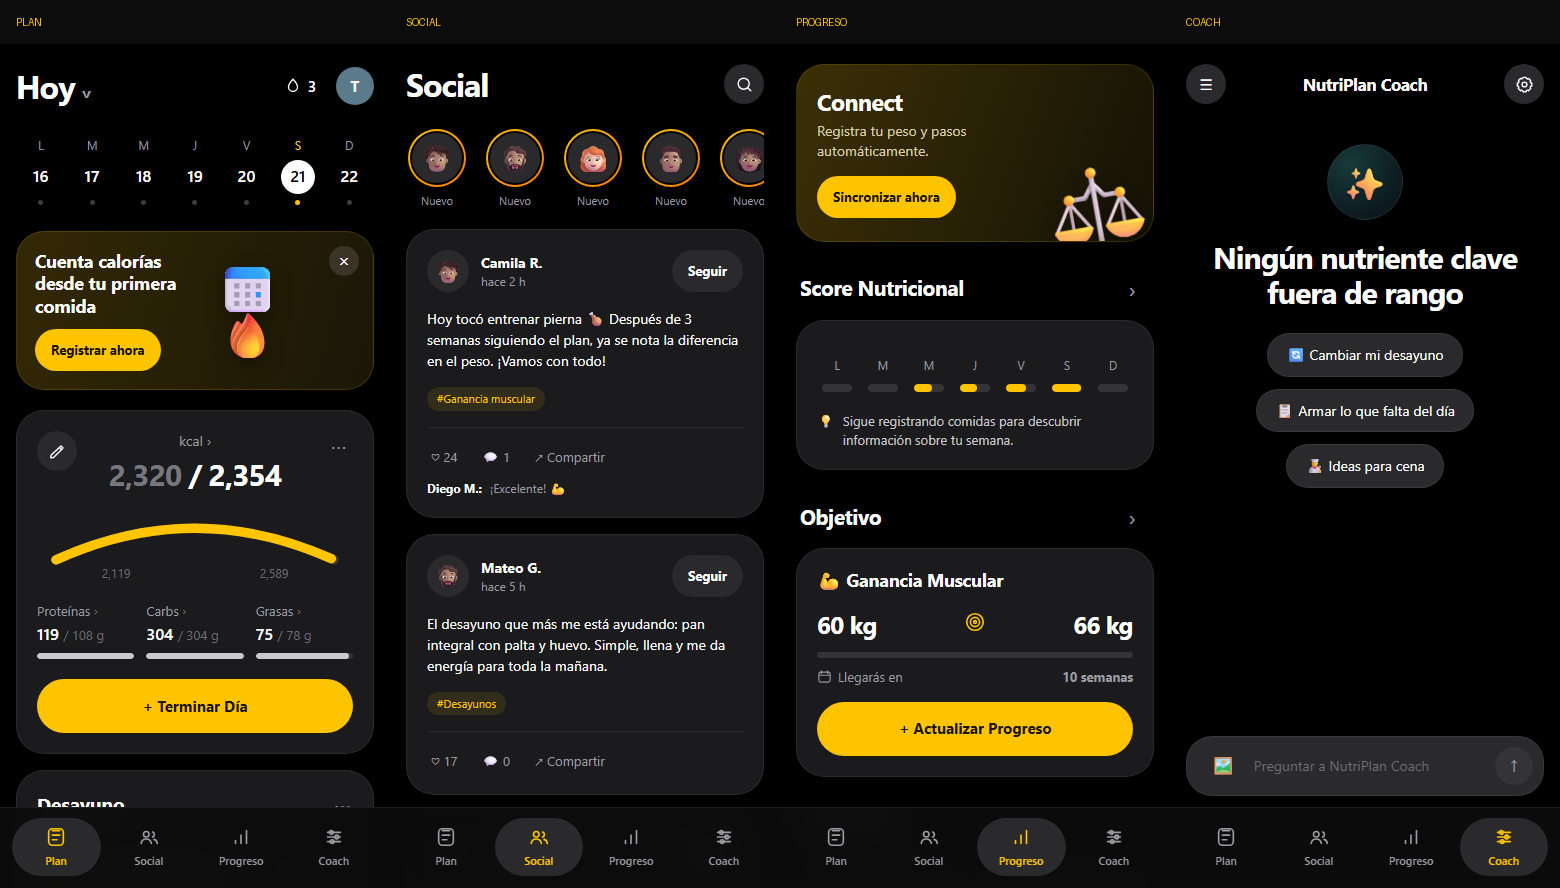
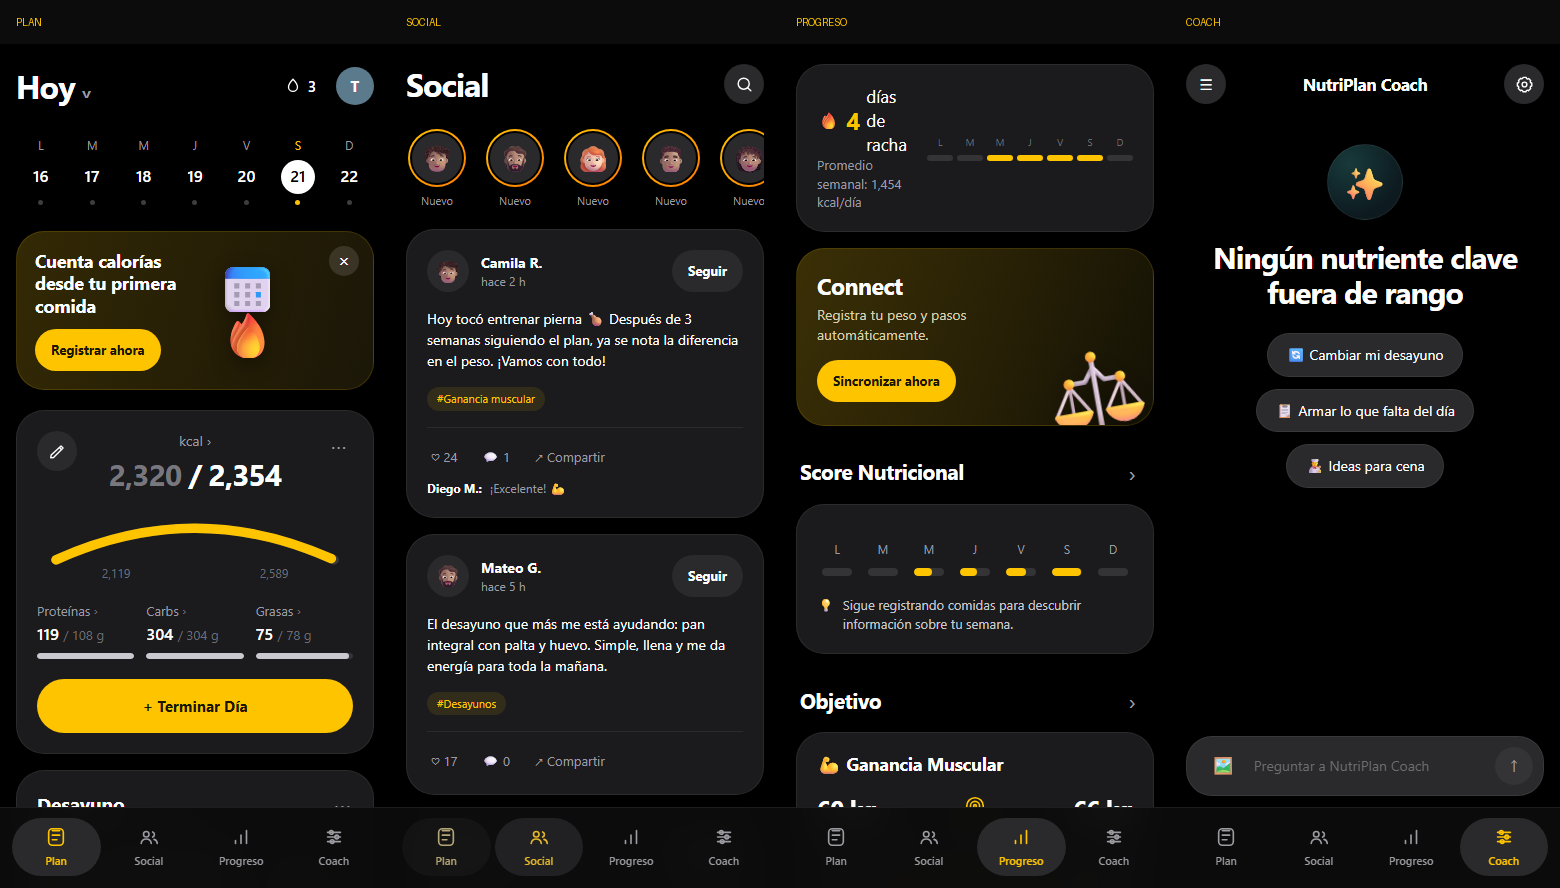
feat: añadir racha y promedio semanal en Progreso

Changed region(s): [[0.4923, 0.0608, 0.7385, 0.9122], [0.3385, 0.9426, 0.3692, 0.973]]

diff --git a/css/styles.css b/css/styles.css
@@ -352,6 +352,15 @@ h3 { font-size: 18px; line-height: 1.25; letter-spacing: -0.01em; font-weight: 7
 .add-row:hover { background: var(--surface-3); }
 
 /* ---------- Progreso ---------- */
+.streak-card { margin-bottom: var(--s4); }
+.streak-title { display: flex; align-items: center; gap: 6px; font-size: 17px; }
+.streak-title strong { font-size: 24px; color: var(--accent); }
+.streak-week { display: grid; grid-template-columns: repeat(7, 26px); gap: 4px; }
+.streak-day { display: flex; flex-direction: column; align-items: center; gap: 6px; }
+.streak-day span { font-size: 10px; color: var(--faint); }
+.streak-day i { width: 100%; height: 6px; border-radius: 99px; background: var(--surface-3); }
+.streak-day.on i { background: var(--accent); }
+
 .connect {
   position: relative;
   display: flex;
@@ -459,6 +468,19 @@ h3 { font-size: 18px; line-height: 1.25; letter-spacing: -0.01em; font-weight: 7
 .bubble { max-width: 88%; padding: 12px 16px; border-radius: 18px; font-size: 14px; line-height: 1.45; white-space: pre-wrap; }
 .bubble.user { justify-self: end; background: var(--accent); color: #1c1500; border-bottom-right-radius: 4px; }
 .bubble.coach { justify-self: start; background: var(--surface-2); border-bottom-left-radius: 4px; }
+.suggestion-btn {
+  display: block;
+  width: 100%;
+  margin-top: 12px;
+  padding: 10px 12px;
+  border: 1px solid rgba(255, 196, 0, 0.3);
+  border-radius: 12px;
+  background: rgba(255, 196, 0, 0.1);
+  color: var(--accent);
+  font-size: 13px;
+  font-weight: 700;
+}
+.suggestion-btn:hover { background: rgba(255, 196, 0, 0.18); }
 .composer {
   position: fixed;
   bottom: 92px;

diff --git a/js/ui.js b/js/ui.js
@@ -179,6 +179,20 @@
     const s = Store.state;
     const proj = Store.projection();
     const days = Store.weekDays();
+    const streak = Store.streak();
+    const week = Store.weeklySummary();
+    const streakCard = `
+      <section class="card streak-card">
+        <div class="row-between">
+          <div>
+            <div class="streak-title"><span aria-hidden="true">🔥</span> <strong>${streak}</strong> días de racha</div>
+            <p class="small muted">${week.average ? `Promedio semanal: ${fmt(week.average)} kcal/día` : 'Registra comidas para empezar tu racha'}</p>
+          </div>
+          <div class="streak-week">
+            ${week.days.map((d) => `<div class="streak-day ${d.logged ? 'on' : ''}" title="${d.num}: ${d.kcal ? fmt(d.kcal) + ' kcal' : 'sin registrar'}"><span>${d.label}</span><i></i></div>`).join('')}
+          </div>
+        </div>
+      </section>`;
     const scoreCols = days.map((d) => {
       const score = Store.scoreFor(d.key);
       return `<div class="score-day"><span>${d.label}</span><div class="score-pill" title="${score ? score + '/100' : 'Sin datos'}"><i style="width:${score || 0}%"></i></div></div>`;
@@ -188,7 +202,8 @@
     const metrics = s.metrics.slice(-3).map((m) => `<div class="mini-row"><span>${esc(m.name)}</span><strong>${esc(m.value)} ${esc(m.unit)}</strong></div>`).join('');
 
     return `
-      <section class="connect">
+      ${streakCard}
+      <section class="connect" style="margin-top:16px">
         <div>
           <h2>Connect</h2>
           <p>Registra tu peso y pasos automáticamente.</p>

diff --git a/js/store.js b/js/store.js
@@ -121,6 +121,29 @@
     });
   }
 
+  function hasLogs(key) {
+    const day = state.days[key];
+    return !!day && Object.values(day.meals || {}).some((items) => items.length > 0);
+  }
+
+  function streak() {
+    let count = 0;
+    let cursor = new Date();
+    if (!hasLogs(keyOf(cursor))) cursor = addDays(cursor, -1);
+    while (hasLogs(keyOf(cursor))) {
+      count++;
+      cursor = addDays(cursor, -1);
+    }
+    return count;
+  }
+
+  function weeklySummary() {
+    const days = weekDays().map((d) => ({ ...d, logged: hasLogs(d.key), kcal: totalsFor(d.key).kcal }));
+    const logged = days.filter((d) => d.logged);
+    const average = logged.length ? Math.round(logged.reduce((sum, d) => sum + d.kcal, 0) / logged.length) : 0;
+    return { days, average };
+  }
+
   function projection() {
     const p = state.profile;
     const current = state.weights.length ? state.weights[state.weights.length - 1].kg : p.startWeight;
@@ -225,7 +248,7 @@
   global.Store = {
     get state() { return state; },
     save, subscribe, emptyDay, getDay, foodById, itemNutrition, addCustomFood,
-    totalsFor, scoreFor, weekDays, projection,
+    totalsFor, scoreFor, weekDays, projection, streak, weeklySummary,
     addFood, removeFood, setWater, finishDay, addWeight,
     addPhoto, removePhoto, addMetric,
     toggleLike, toggleJoin, addComment,

diff --git a/scripts/capture.py b/scripts/capture.py
@@ -28,6 +28,10 @@ with sync_playwright() as p:
         page.wait_for_timeout(250)
         shot(page, tab)
 
+    # Comprobación: racha semanal
+    page.locator('[data-tab="progreso"]').click()
+    assert page.locator('.streak-card').count() == 1, "No aparece la tarjeta de racha"
+
     # Vista completa de la pantalla Plan (sin la barra fija para que no tape el contenido)
     page.locator('[data-tab="plan"]').click()
     page.add_style_tag(content=".tabbar { display: none !important; }")
